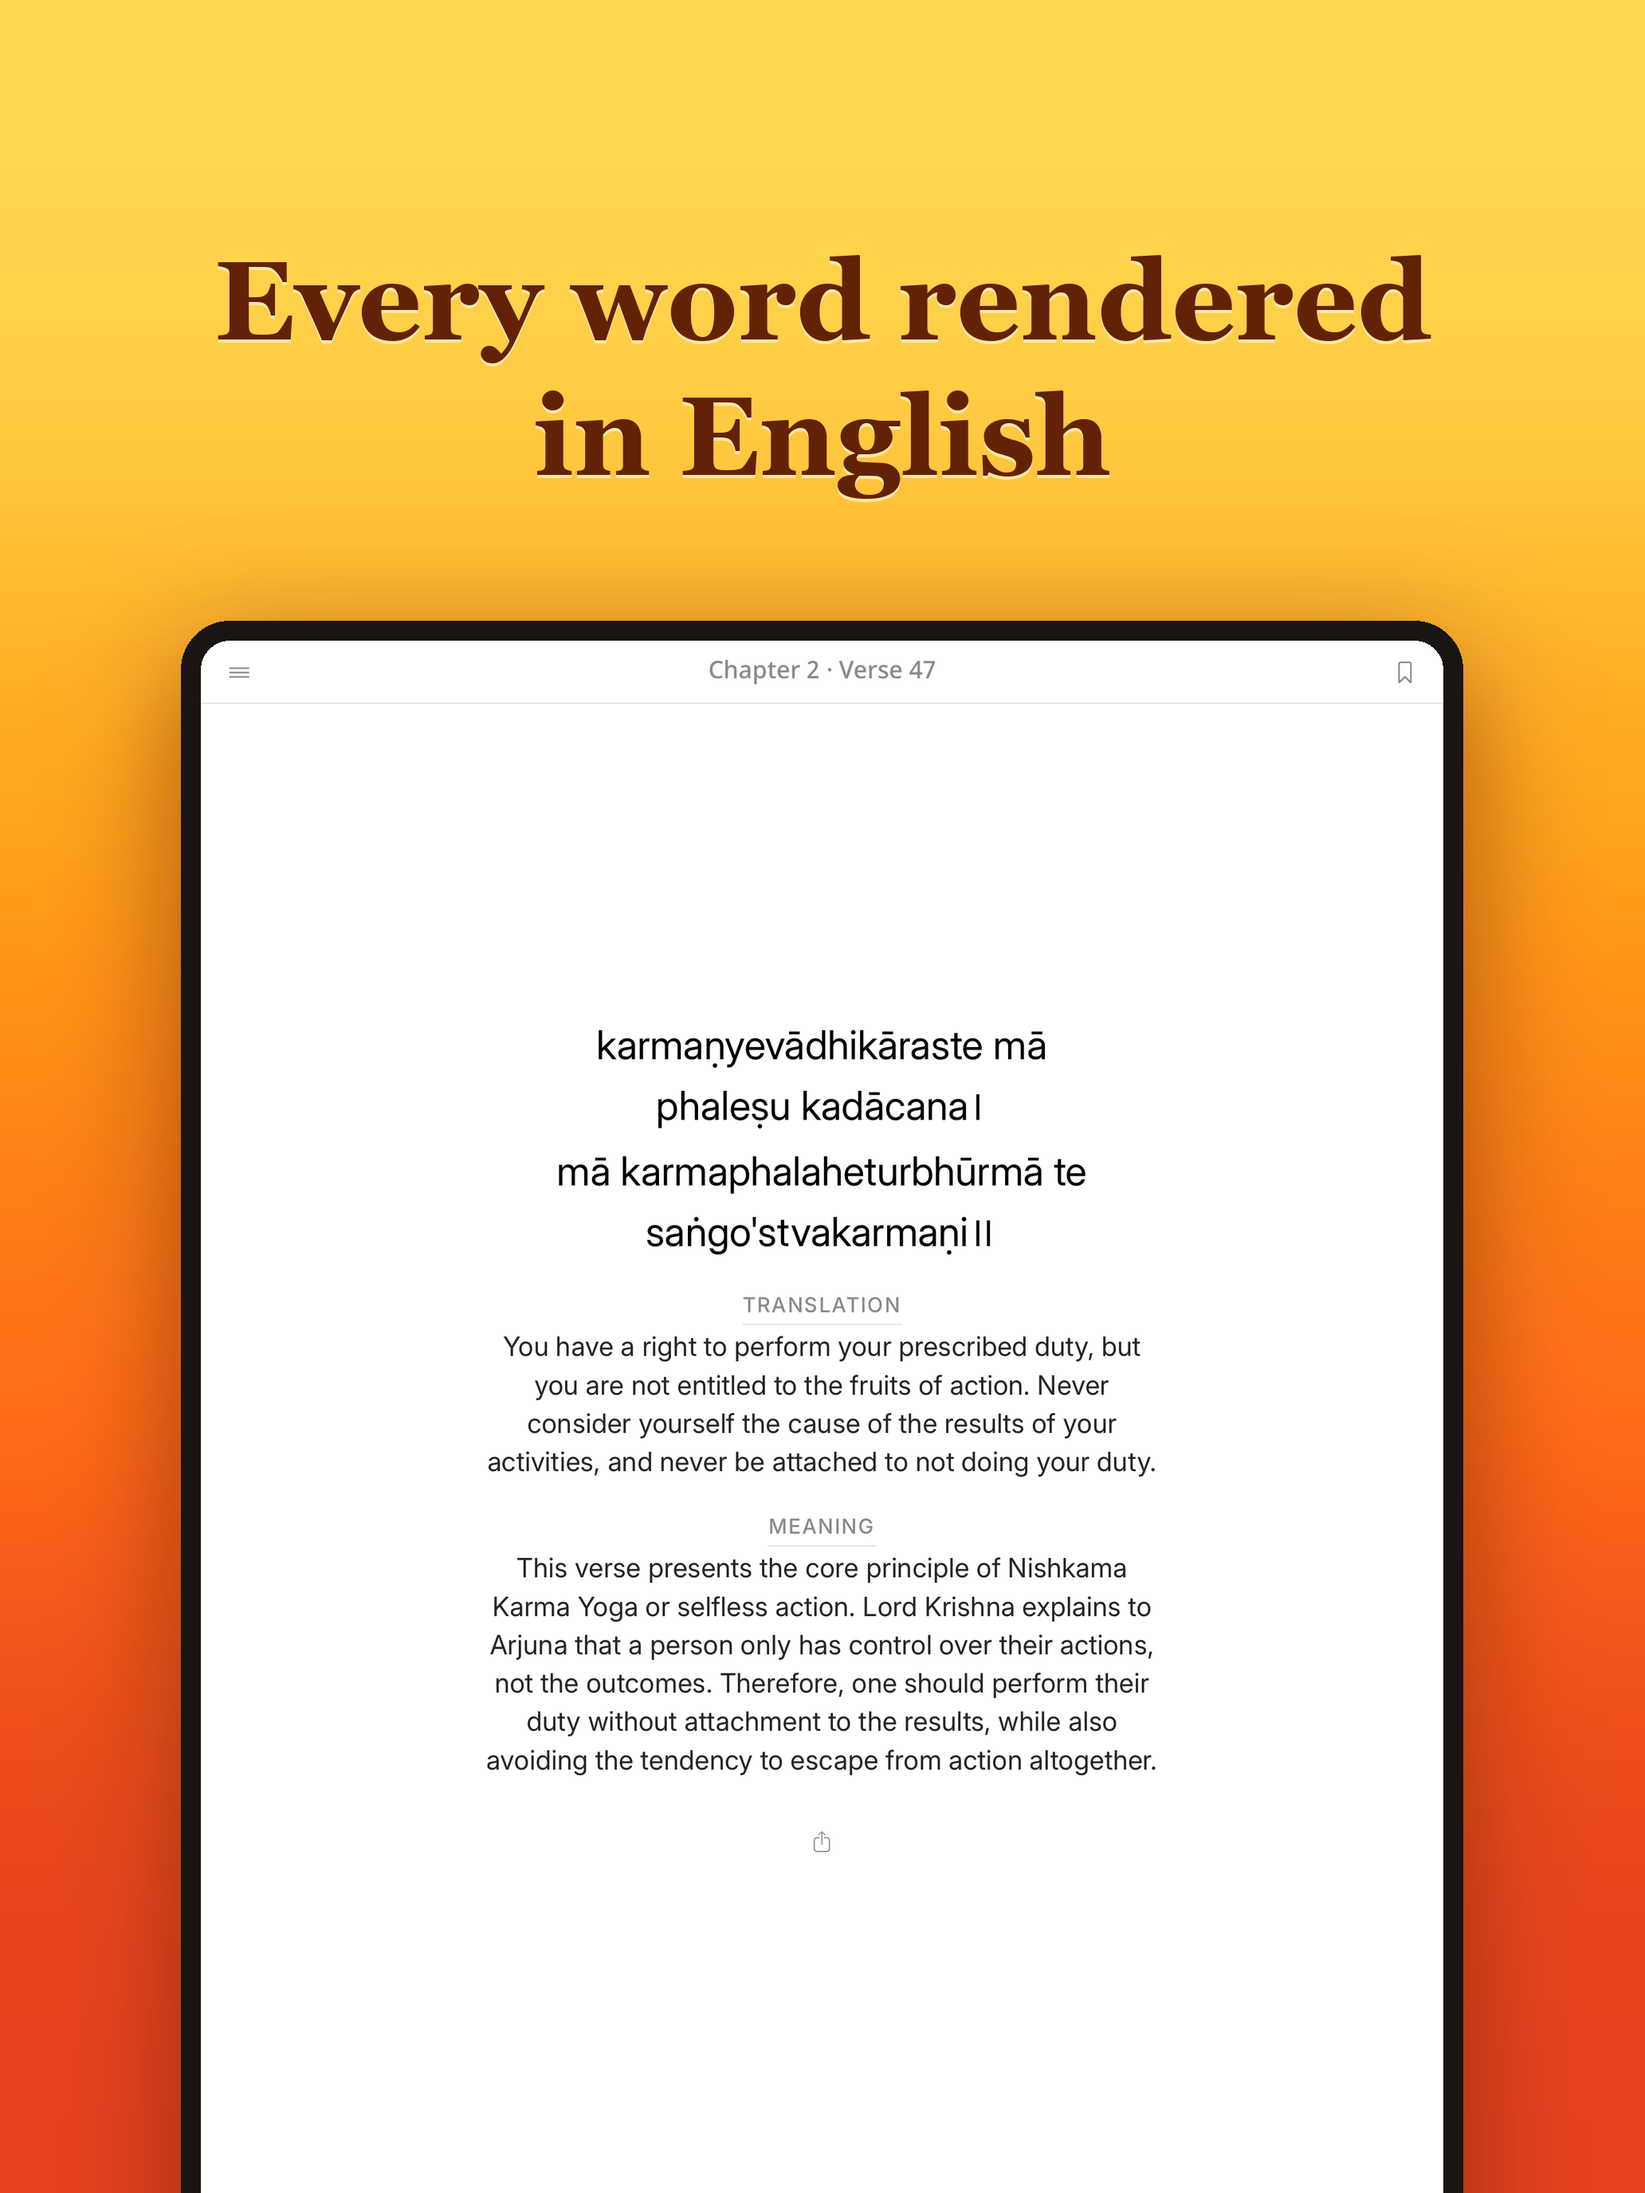
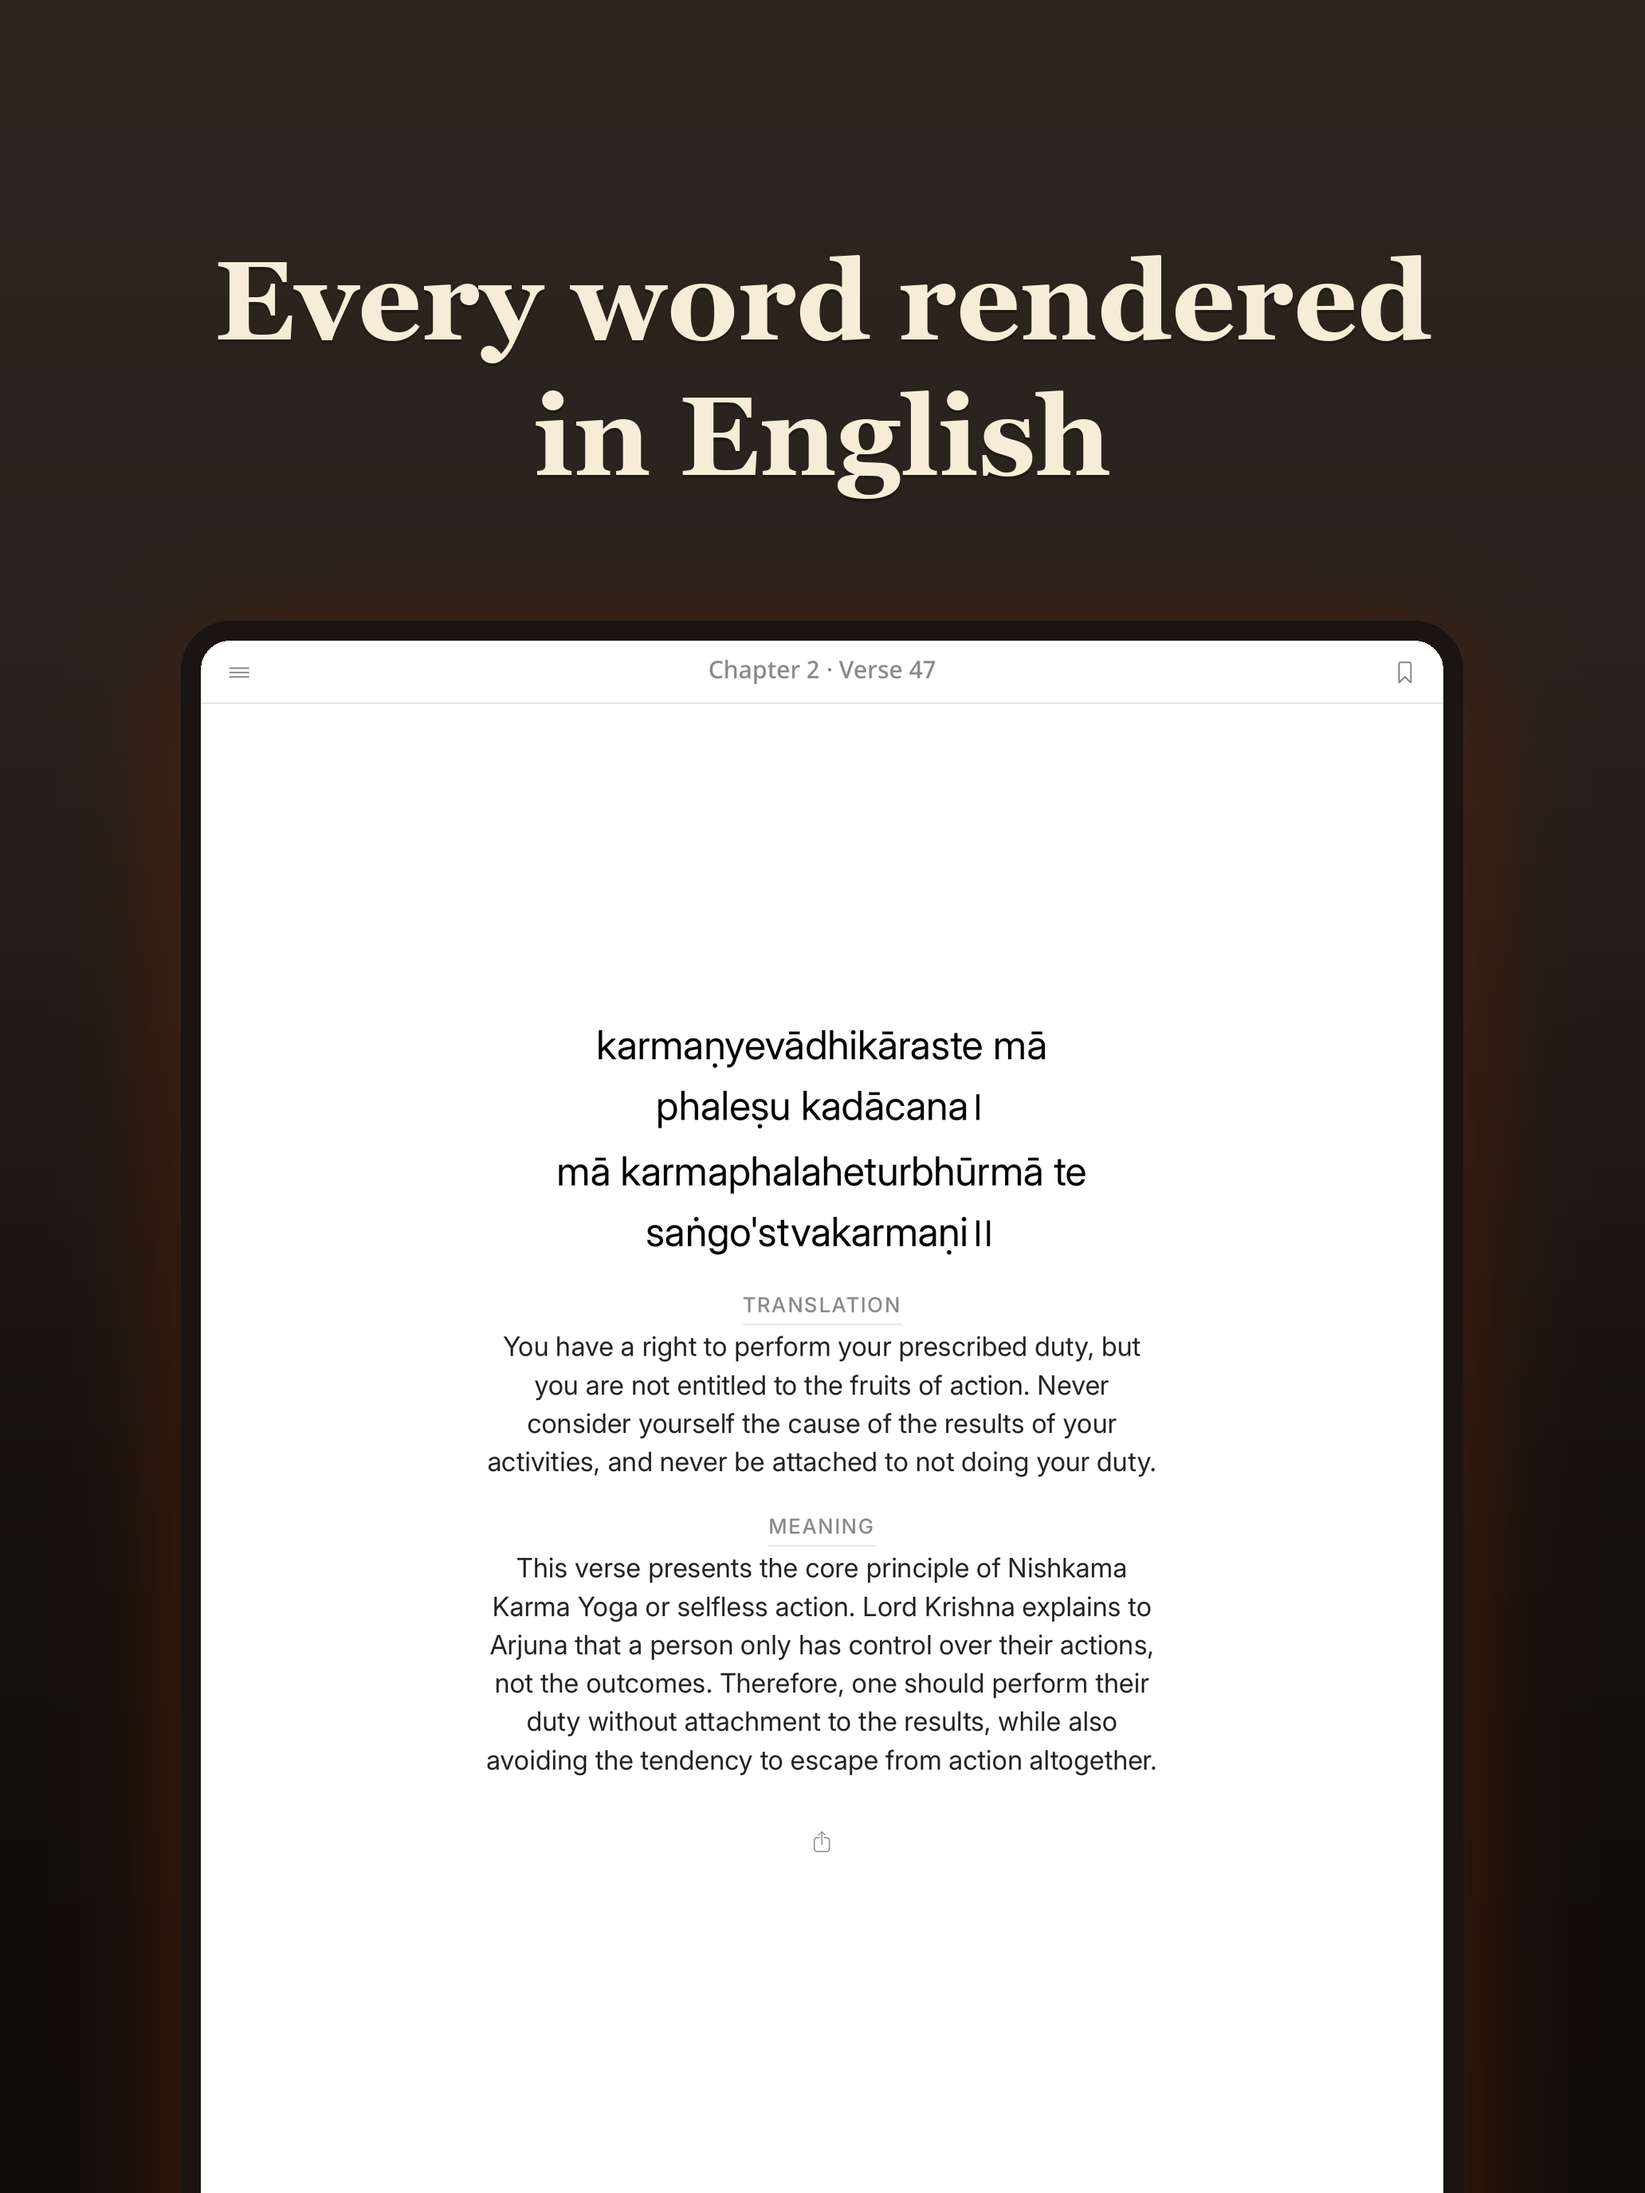
Five grounds, not one, and shoot the panels again
The listing was the brand ramp five times over: one long orange smear in which
no single screen stood out. A carousel is read sideways in about a second, and
it reads better as five distinct cards than as one repeated background.

So each panel takes a ground from the book's own world instead — parchment,
ink, saffron, vermillion, and the Sepia a reader can actually choose in the
app. The ramp is still there; it is one of the five rather than all of them,
which is also what makes it mean something when it appears.

Each ground carries its own caption ink, chosen against that ground rather than
one colour hoped to work on all: cream on the dark and the vermillion, deep
brown on the parchment and the saffron. The lift under the letters leans the
opposite way from the ink, so it separates them from the ground without a halo
in either direction.

The grounds are woven rather than flat. Two faint passes — vertical warp
streaks like laid paper, and grain — because a flat gradient over 2796 points
bands visibly on a phone, and banding is the one artefact a large flat area
cannot hide.

All fifteen panels are re-shot, not merely recomposed: the captures inside them
predated the read meter, the standing tick and the contents key, so the frames
would have shown an app three commits old. iPhone at 1290x2796 and 1284x2778,
iPad genuinely shot on a 13-inch iPad at 2064x2752 rather than scaled from the
phone — the progress panel goes to three columns there, which is the argument
[…]

diff --git a/tools/make_appstore_media.py b/tools/make_appstore_media.py
@@ -35,6 +35,7 @@ Two sizes worth knowing:
 from __future__ import annotations
 
 import argparse
+import random
 import re
 import shutil
 import signal
@@ -43,7 +44,7 @@ import sys
 import tempfile
 from pathlib import Path
 
-from PIL import Image, ImageDraw, ImageFilter, ImageFont
+from PIL import Image, ImageDraw, ImageEnhance, ImageFilter, ImageFont
 
 sys.path.insert(0, str(Path(__file__).resolve().parent))
 from make_brand import GROUND_LIGHT, compose as brand_mark         # noqa: E402
@@ -88,12 +89,47 @@ SERIF = "/System/Library/Fonts/Supplemental/Georgia.ttf"
 # One panel per captured screen. The caption is the whole marketing message —
 # two short lines, because three is a paragraph and nobody reads a paragraph in
 # a store carousel.
+# One panel per captured screen. The caption is the whole marketing message —
+# two short lines, because three is a paragraph and nobody reads a paragraph in
+# a store carousel.
 STILLS = [
     ("1-sanskrit", "All 700 verses,\nin the original Sanskrit"),
     ("2-english", "Every word rendered\nin English"),
     ("3-search", "Search the whole Gita\nin an instant"),
     ("4-progress", "See how far\nyou have come"),
 ]
+
+# A ground per panel, rather than the brand ramp five times.
+#
+# The ramp is the *app's* identity — the icon, the splash, the rail — and
+# running it down every panel made the listing one long orange smear in which
+# no single screen stood out. A carousel is read sideways, in a second, and it
+# reads better as five distinct cards than as one repeated background.
+#
+# So each panel takes a ground from the book's own world instead: parchment,
+# ink, saffron, vermillion, and the sepia the reader can actually choose. The
+# brand still appears — it is one of the five, not all of them.
+#
+# Each entry is (top, bottom, ink), where ink is the caption colour, chosen for
+# contrast against its own ground rather than one colour hoped to work on all.
+CREAM = (0xF6, 0xEC, 0xD8)
+DEEP_BROWN = (0x4A, 0x28, 0x0C)
+
+PANEL_GROUNDS = {
+    # The book itself: parchment, and the type that belongs on it.
+    "1-sanskrit": ((0xF3, 0xE6, 0xCC), (0xE2, 0xCB, 0xA4), DEEP_BROWN),
+    # Ink, for the page turned into English. The one dark panel in the set,
+    # which is what stops five light ones reading as one.
+    "2-english": ((0x2A, 0x22, 0x1C), (0x14, 0x10, 0x0C), CREAM),
+    # Saffron: the brand, once.
+    "3-search": ((0xF2, 0xA8, 0x3C), (0xD9, 0x6B, 0x15), (0x3D, 0x1C, 0x04)),
+    # Vermillion, deeper than the ramp's end, for the panel about a long road.
+    "4-progress": ((0xB8, 0x45, 0x1E), (0x7E, 0x24, 0x12), CREAM),
+    # Sepia, which is a real setting in the app and the quietest of the five —
+    # the right note for the card someone sends to a friend.
+    "5-card": ((0xE8, 0xD9, 0xBE), (0xCF, 0xB8, 0x92), DEEP_BROWN),
+}
+
 CARD_PANEL = ("5-card", "Share any verse\nas a card")
 
 # The preview's captions, one per beat of the tour, keyed by the name the tour
@@ -465,12 +501,48 @@ def closing_card(frame: tuple[int, int] = PREVIEW, name: str = "closing") -> Pat
 # -------------------------------------------------------------------- drawing
 
 
-def ground(size: tuple[int, int]) -> Image.Image:
-    """The brand ramp over the whole panel, from `make_brand.GROUND_LIGHT`."""
-    small = Image.new("RGB", (1, len(GROUND_LIGHT)))
-    for index, colour in enumerate(GROUND_LIGHT):
+def ground(size: tuple[int, int], stops: tuple = GROUND_LIGHT) -> Image.Image:
+    """A vertical ramp over the whole panel."""
+    small = Image.new("RGB", (1, len(stops)))
+    for index, colour in enumerate(stops):
         small.putpixel((0, index), colour)
     return small.resize(size, Image.BICUBIC)
+
+
+def textured(size: tuple[int, int], top: tuple, bottom: tuple) -> Image.Image:
+    """A two-stop ground with a cloth in it.
+
+    Flat gradients read as software; a ground with some tooth in it reads as
+    paper, which is what a book's store page should look like. Two passes, both
+    faint enough to be felt rather than seen:
+
+      * **Warp** — slow vertical streaks, like a laid paper or a dyed cloth.
+        Made by blurring one row of noise into columns, so the streaks run the
+        full height without ever repeating exactly.
+      * **Grain** — per-pixel noise at a couple of levels, which stops the
+        gradient banding on a phone's screen. Banding is the one artefact a
+        large flat area cannot hide.
+    """
+    panel = ground(size, (top, bottom))
+    width, height = size
+    seed = random.Random(0x6-0x1 + sum(top) + sum(bottom))
+
+    # The warp: one row of noise, blurred sideways, stretched down the panel.
+    row = Image.new("L", (width // 6, 1))
+    row.putdata([seed.randint(96, 160) for _ in range(width // 6)])
+    warp = row.resize((width, height), Image.BICUBIC).filter(ImageFilter.GaussianBlur(3))
+    panel = Image.blend(panel, Image.composite(
+        ImageEnhance.Brightness(panel).enhance(1.06), panel, warp
+    ), 0.55)
+
+    # The grain, at a strength that survives JPEG but never becomes a texture
+    # anyone would name.
+    grain = Image.new("L", (width // 2, height // 2))
+    grain.putdata([seed.randint(118, 138) for _ in range((width // 2) * (height // 2))])
+    grain = grain.resize(size, Image.BILINEAR)
+    return Image.blend(panel, Image.composite(
+        ImageEnhance.Brightness(panel).enhance(1.05), panel, grain
+    ), 0.5)
 
 
 def rounded(size: tuple[int, int], radius: int) -> Image.Image:
@@ -505,7 +577,7 @@ def drop(panel: Image.Image, box: tuple[int, int, int, int], radius: int) -> Non
     panel.paste(Image.new("RGB", panel.size, (0x6B, 0x22, 0x06)), (0, 0), shadow)
 
 
-def caption(panel: Image.Image, text: str) -> int:
+def caption(panel: Image.Image, text: str, ink: tuple = (0x63, 0x22, 0x06)) -> int:
     """Two centred lines at the top. Returns the y the artwork may start at."""
     k = scale(panel)
     draw = ImageDraw.Draw(panel)
@@ -513,12 +585,22 @@ def caption(panel: Image.Image, text: str) -> int:
     top = int(186 * k)
     spacing = int(26 * k)
 
-    # Deep brown, not white. The panel's caption sits on the yellow end of the
-    # ramp, which is the one place white loses its contrast — at carousel size
-    # it goes soft and unreadable. The pale line under it is a lift, not a
-    # shadow: it separates the letters from the ground without a halo.
-    for offset, fill in (((0, int(3 * k)), (0xFF, 0xE7, 0xA8)),
-                         ((0, 0), (0x63, 0x22, 0x06))):
+    # The ink is chosen per panel, against that panel's own ground: cream on the
+    # dark and the vermillion, deep brown on the parchment and the saffron. One
+    # colour for all five is one colour that is wrong on two of them.
+    #
+    # The line under the letters is a lift, not a shadow — it separates them
+    # from the ground without a halo — so it leans the opposite way from the
+    # ink: dark under pale type, pale under dark type.
+    lift = (0x00, 0x00, 0x00, 60) if sum(ink) > 380 else (0xFF, 0xFF, 0xFF, 70)
+    shadow = Image.new("RGBA", panel.size, (0, 0, 0, 0))
+    ImageDraw.Draw(shadow).multiline_text(
+        (panel.width // 2, top + int(3 * k)), text, font=face,
+        fill=lift, anchor="ma", align="center", spacing=spacing,
+    )
+    panel.paste(Image.alpha_composite(panel.convert("RGBA"), shadow).convert("RGB"), (0, 0))
+
+    for offset, fill in (((0, 0), ink),):
         draw.multiline_text(
             (panel.width // 2 + offset[0], top + offset[1]), text, font=face,
             fill=fill, anchor="ma", align="center", spacing=spacing,
@@ -530,7 +612,8 @@ def caption(panel: Image.Image, text: str) -> int:
 
 
 def device_panel(shot: Image.Image, text: str, size: tuple[int, int] = PANEL,
-                 across: float = 0.72, corner: float = 0.105) -> Image.Image:
+                 across: float = 0.72, corner: float = 0.105,
+                 palette: tuple | None = None) -> Image.Image:
     """A screenshot in a device, running off the bottom edge of the panel.
 
     `across` and `corner` are what make the same drawing work for a tablet: an
@@ -538,9 +621,10 @@ def device_panel(shot: Image.Image, text: str, size: tuple[int, int] = PANEL,
     shot in a phone-shaped frame with phone-sized corners reads as a phone
     someone stretched.
     """
-    panel = ground(size)
+    top_colour, bottom_colour, ink = palette or PANEL_GROUNDS["1-sanskrit"]
+    panel = textured(size, top_colour, bottom_colour)
     k = scale(panel)
-    top = caption(panel, text) + int(96 * k)
+    top = caption(panel, text, ink=ink) + int(96 * k)
 
     width = int(size[0] * across)
     height = int(width * shot.height / shot.width)
@@ -556,11 +640,12 @@ def device_panel(shot: Image.Image, text: str, size: tuple[int, int] = PANEL,
     return panel
 
 
-def card_panel(card: Image.Image, text: str,
-               size: tuple[int, int] = PANEL) -> Image.Image:
+def card_panel(card: Image.Image, text: str, size: tuple[int, int] = PANEL,
+               palette: tuple | None = None) -> Image.Image:
     """The share card is square and is its own artwork — no phone around it."""
-    panel = ground(size)
-    top = caption(panel, text)
+    top_colour, bottom_colour, ink = palette or PANEL_GROUNDS["5-card"]
+    panel = textured(size, top_colour, bottom_colour)
+    top = caption(panel, text, ink=ink)
 
     side = int(size[0] * 0.80)
     radius = int(side * 0.06)
@@ -591,7 +676,7 @@ def compose_ipad() -> None:
         if not source.exists():
             raise SystemExit(f"error: {source.relative_to(ROOT)} is missing")
         panel = device_panel(Image.open(source).convert("RGB"), text, PANEL_IPAD,
-                             across=0.78, corner=0.038)
+                             across=0.78, corner=0.038, palette=PANEL_GROUNDS[name])
         panel.save(PANELS_IPAD / f"{name}.png")
         print(f"    {name}")
 
@@ -600,9 +685,8 @@ def compose_ipad() -> None:
     name, text = CARD_PANEL
     card = RAW / "5-card.png"
     if card.exists():
-        card_panel(Image.open(card).convert("RGB"), text, PANEL_IPAD).save(
-            PANELS_IPAD / f"{name}.png"
-        )
+        card_panel(Image.open(card).convert("RGB"), text, PANEL_IPAD,
+                   palette=PANEL_GROUNDS[name]).save(PANELS_IPAD / f"{name}.png")
         print(f"    {name}")
 
 
@@ -655,14 +739,16 @@ def compose() -> None:
                     f"error: {source.relative_to(ROOT)} is missing — capture first"
                 )
             shot = Image.open(source).convert("RGB")
-            device_panel(shot, text, size).save(folder / f"{name}.png")
+            device_panel(shot, text, size,
+                         palette=PANEL_GROUNDS[name]).save(folder / f"{name}.png")
             print(f"    {name}")
 
         name, text = CARD_PANEL
         source = RAW / "5-card.png"
         if source.exists():
             card = Image.open(source).convert("RGB")
-            card_panel(card, text, size).save(folder / f"{name}.png")
+            card_panel(card, text, size,
+                       palette=PANEL_GROUNDS[name]).save(folder / f"{name}.png")
             print(f"    {name}")
 
 
